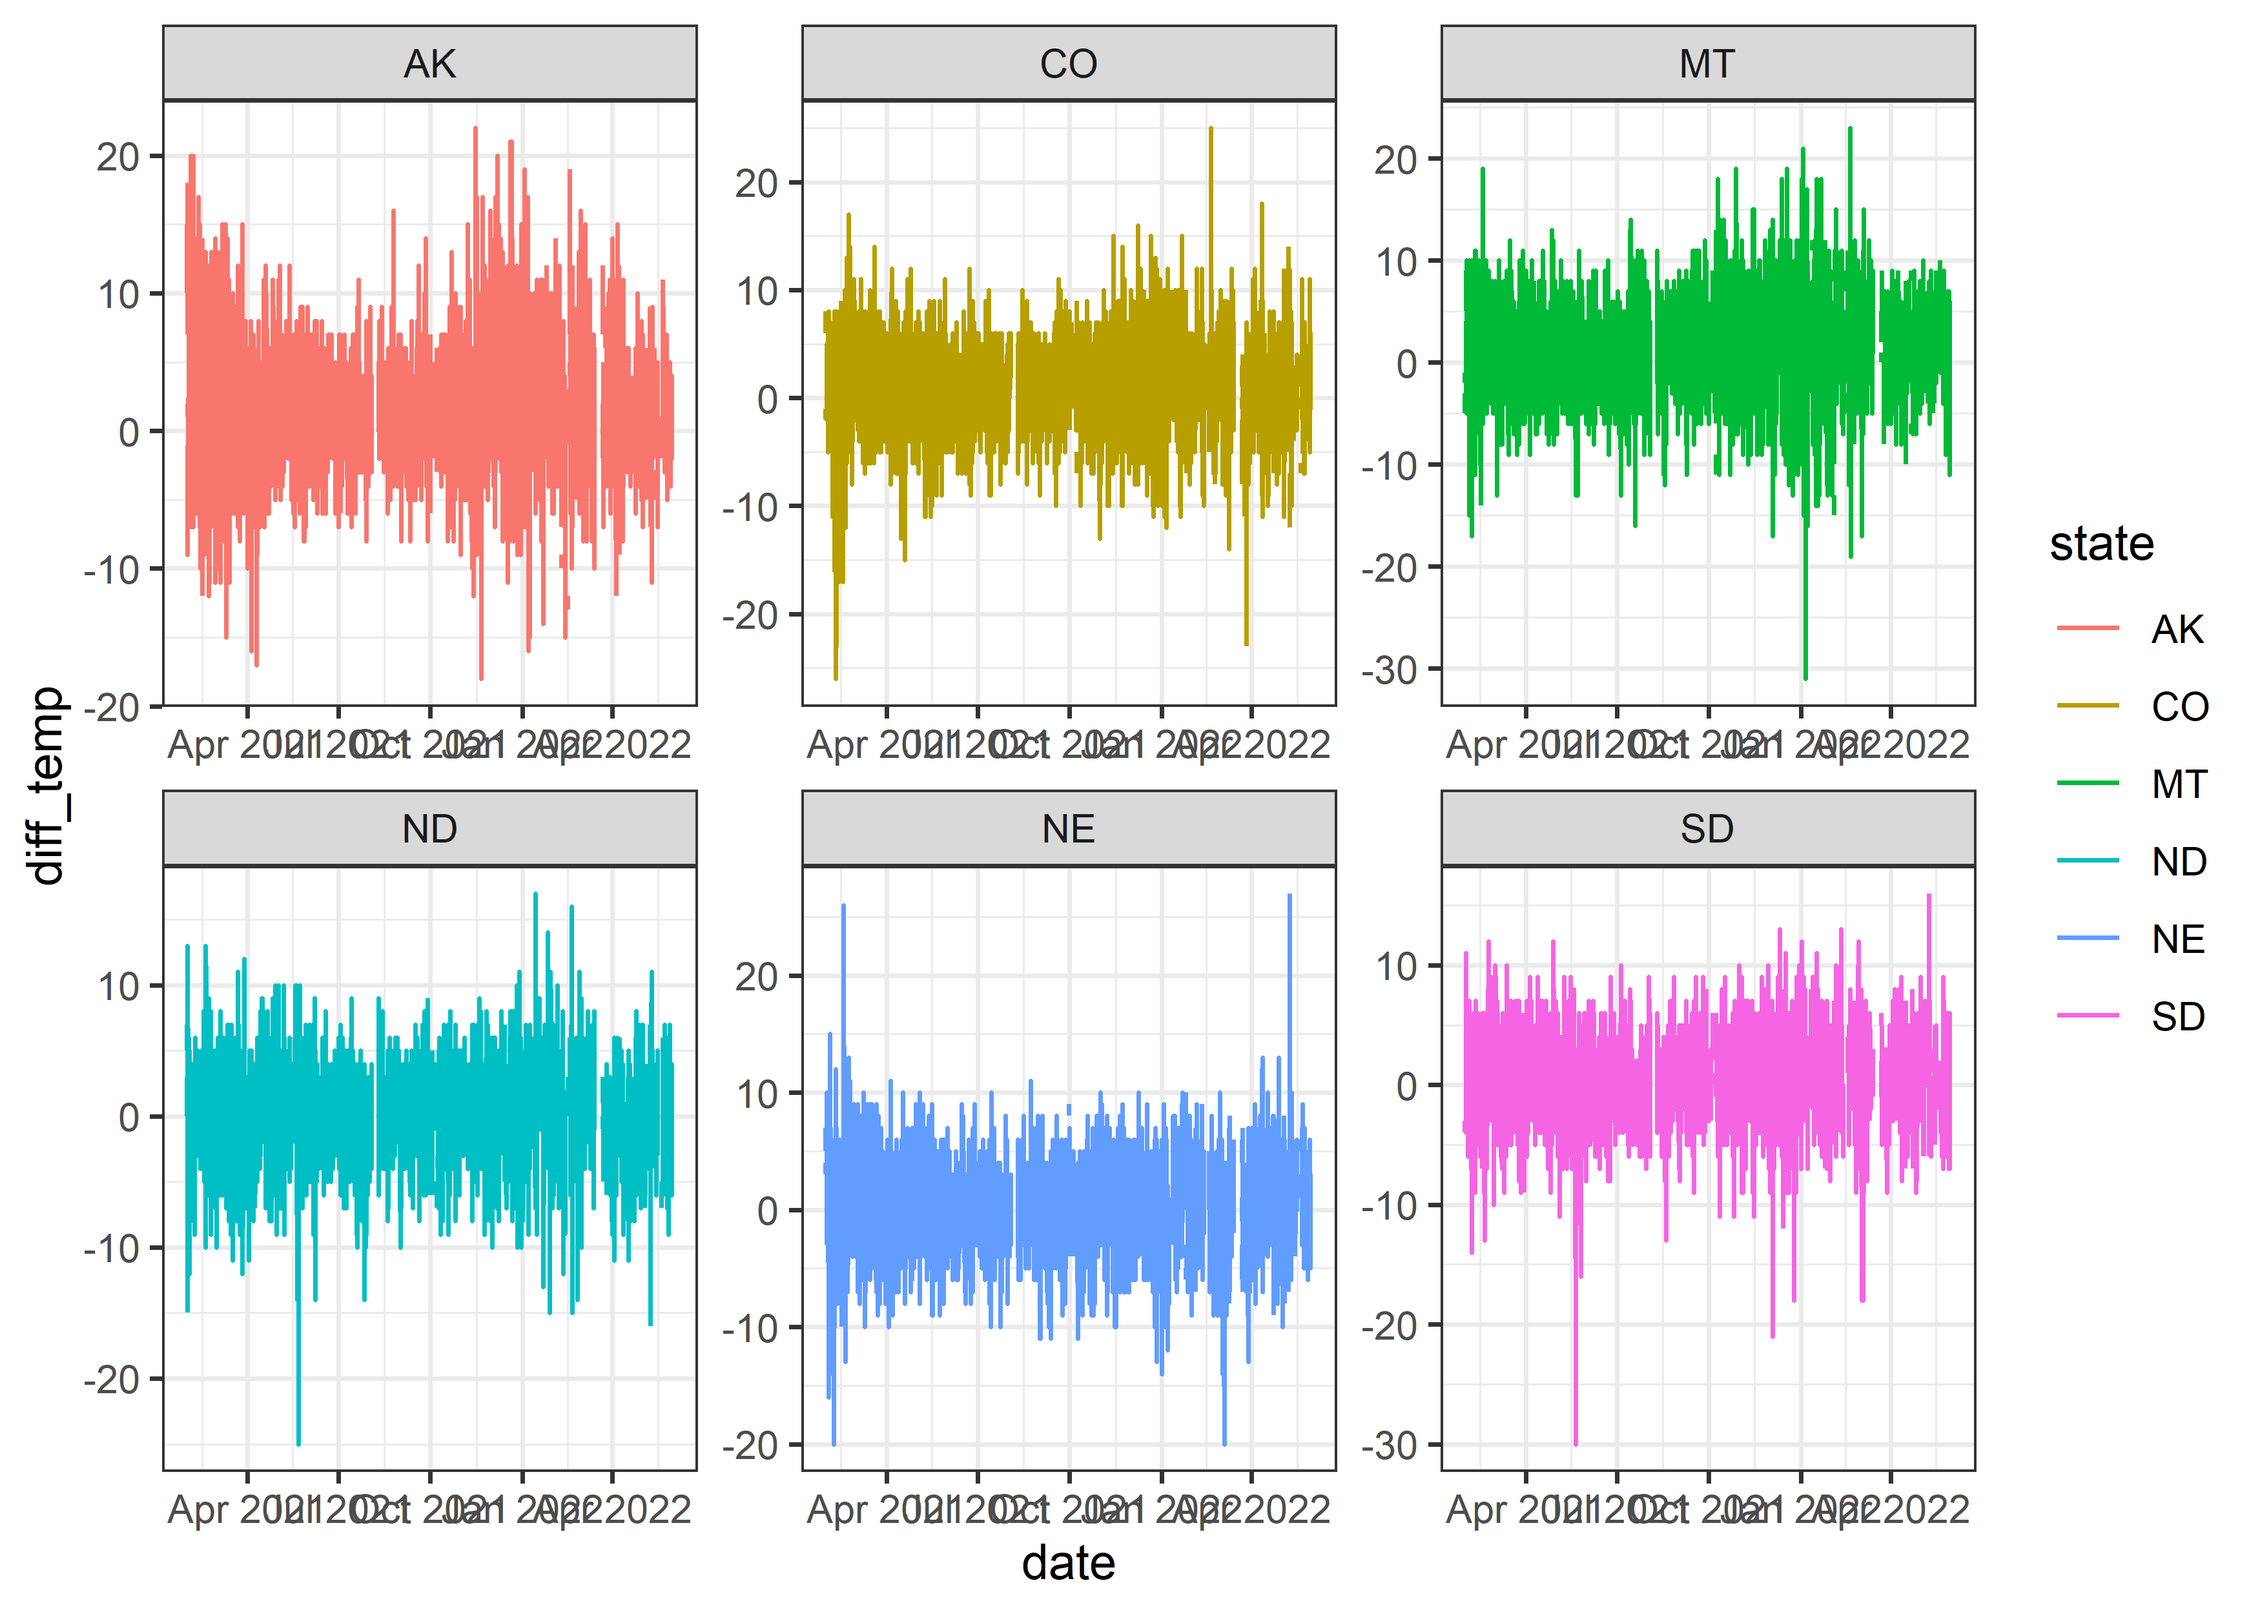
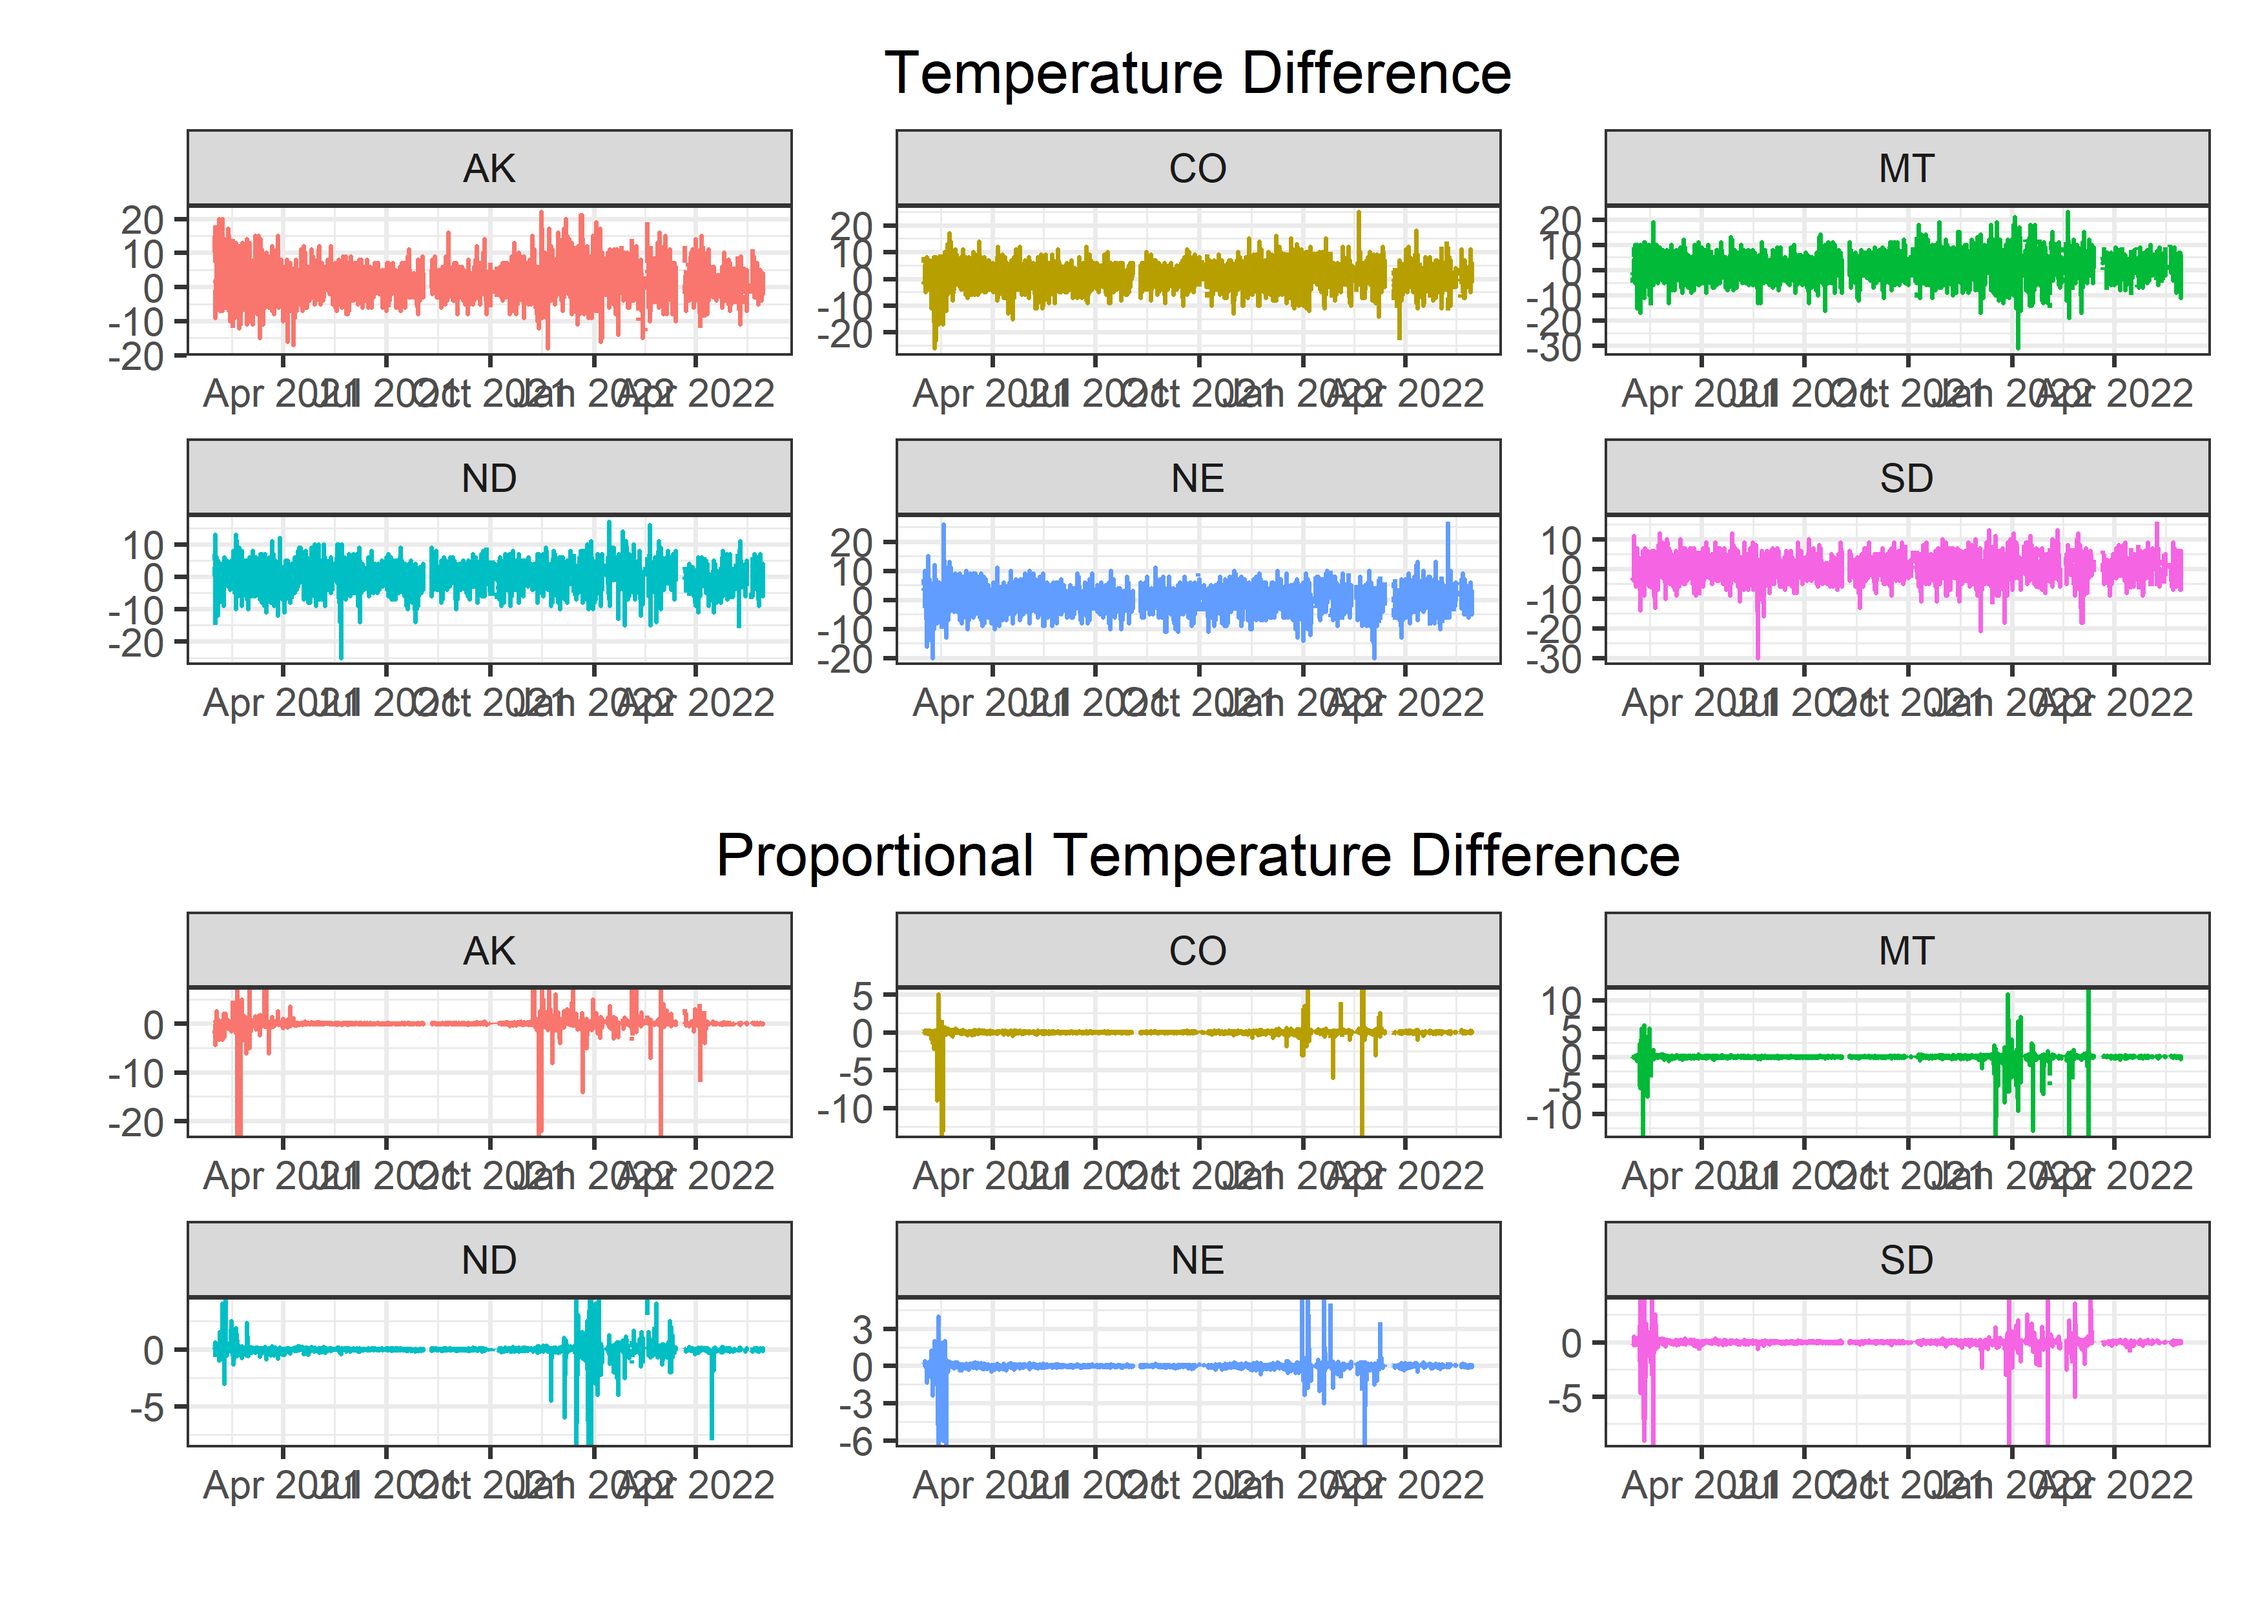
patchwork plot -> ny_weather

diff --git a/12-20-22/Weather-Forecasts.md b/12-20-22/Weather-Forecasts.md
@@ -225,10 +225,12 @@ all values for *forecast_temp* are **-10** and when it equals
 
 ``` r
 weather_forecasts <- weather_forecasts %>% 
-  mutate(diff_temp = observed_temp - forecast_temp) 
+  mutate(diff_temp = observed_temp - forecast_temp,
+         prop_difftemp = diff_temp/observed_temp) 
 ```
 
-Column of temperature differences created above.
+Column of *temperature differences* and *proportional temperature
+differences* created above.
 
 ### States
 
@@ -249,20 +251,65 @@ weather_forecasts %>%
 ![](Weather-Forecasts_files/figure-gfm/unnamed-chunk-11-1.png)<!-- -->
 
 ``` r
-top10states <- weather_forecasts %>% 
+# Select top 6 states without highest average error
+top6states <- weather_forecasts %>% 
   filter(possible_error == "none") %>% 
   group_by(state) %>% 
   summarize(avg_diff = mean(abs(diff_temp), na.rm = TRUE)) %>% 
-  slice_max(avg_diff, n = 6) %>% 
+  slice_max(abs(avg_diff), n = 6) %>% 
   pull(state)
 ```
 
 ``` r
-weather_forecasts %>% 
-  filter(state %in% top10states & possible_error == "none") %>% 
+(weather_forecasts %>% 
+  filter(state %in% top6states & possible_error == "none") %>% 
   ggplot(aes(date, diff_temp, color = state)) +
-  geom_line() +
-  facet_wrap(~state, scales = "free")
+  geom_line() + theme(legend.position = "none") +
+  labs(title = "Temperature Difference", x = "", y = "") +
+  facet_wrap(~state, scales = "free")) /
+(weather_forecasts %>% 
+  filter(state %in% top6states & possible_error == "none") %>% 
+  ggplot(aes(date, prop_difftemp, color = state)) + 
+  geom_line() + theme(legend.position = "none") +
+  labs(title = "Proportional Temperature Difference", x = "", y = "") +
+  facet_wrap(~state, scales = "free"))
 ```
 
 ![](Weather-Forecasts_files/figure-gfm/unnamed-chunk-13-1.png)<!-- -->
+
+#### New York
+
+``` r
+ny_weather <- weather_forecasts %>% 
+  filter(state == "NY")
+```
+
+``` r
+ny_weather %>% 
+  ggplot(aes(date, prop_difftemp)) +
+  geom_line()
+```
+
+![](Weather-Forecasts_files/figure-gfm/unnamed-chunk-15-1.png)<!-- -->
+
+``` r
+ny_weather %>% 
+  filter(prop_difftemp != -Inf) %>% 
+  filter(abs(prop_difftemp) > 2.5) %>% 
+  arrange(-abs(prop_difftemp)) %>% select(prop_difftemp)
+```
+
+    ## # A tibble: 29 x 1
+    ##    prop_difftemp
+    ##            <dbl>
+    ##  1           -13
+    ##  2           -13
+    ##  3           -12
+    ##  4           -10
+    ##  5            10
+    ##  6             8
+    ##  7             7
+    ##  8             7
+    ##  9             6
+    ## 10             6
+    ## # ... with 19 more rows
